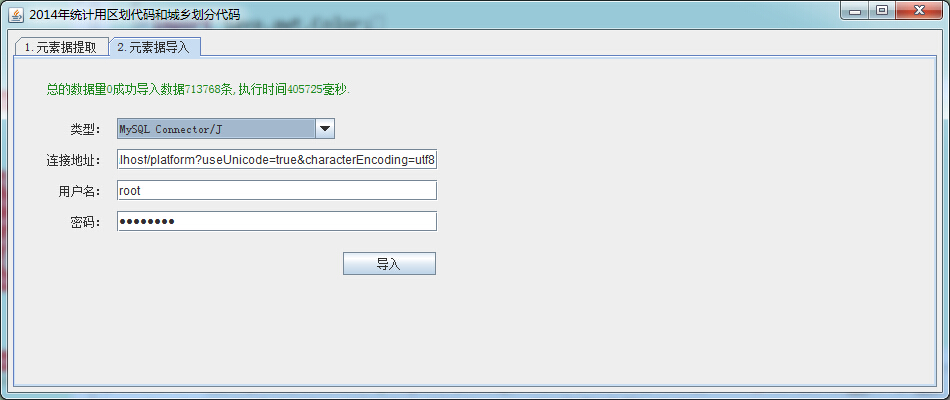
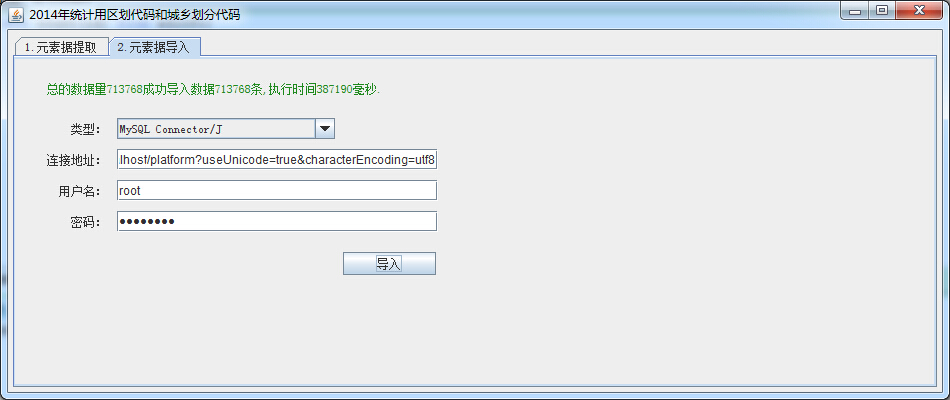
修复统计显示结果

diff --git a/cjoop-ad-crawler/src/main/java/com/cjoop/ad/view/DataImportTask.java b/cjoop-ad-crawler/src/main/java/com/cjoop/ad/view/DataImportTask.java
@@ -42,7 +42,7 @@ public class DataImportTask implements Callable<DataImportResult> {
 			String baseName = FilenameUtils.getBaseName(file.getName());
 			String[] array = baseName.split("_");
 			String name = array[0], code = array[1];
-			jdbcTemplate.update("insert into adinfo(id,name,pid) values (?,?,?)", code, name, "0");
+			jdbcTemplate.update("INSERT INTO adinfo(id,name,pid) VALUES (?,?,?)", code, name, "0");
 			successCount++;
 			String data = FileUtils.readFileToString(file);
 			String[] list = data.split("#");
@@ -57,7 +57,7 @@ public class DataImportTask implements Callable<DataImportResult> {
 					if (matcher.find()) {
 						String id = matcher.group(1);
 						String pid = matcher.group(2);
-						logger.info("insert into adinfo(id,name,pid) values (?,?,?)");
+						logger.debug("insert into adinfo(id,name,pid) values (?,?,?)");
 						jdbcTemplate.update("insert into adinfo(id,name,pid) values (?,?,?)", id, name, pid);
 						successCount++;
 						break;
@@ -69,8 +69,9 @@ public class DataImportTask implements Callable<DataImportResult> {
 			}
 			dataImportResult.setEndTime(System.currentTimeMillis());
 			dataImportResult.setSuccessCount(successCount);
-			dataImportResult.setTotalCount(list.length);
+			dataImportResult.setTotalCount(list.length+1);
 			dataImportResult.setExeTime(dataImportResult.getEndTime() - dataImportResult.getStartTime());
+			logger.info(file.getName()+"导入结束");
 		} catch (Exception e) {
 			dataImportResult.setError(1);
 			dataImportResult.setErrorText(e.getMessage());
